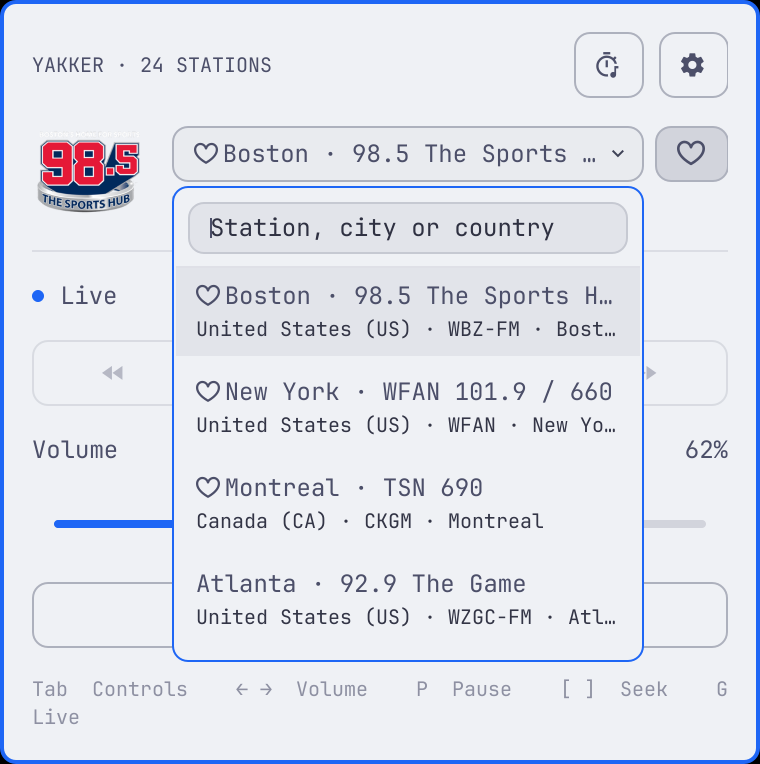
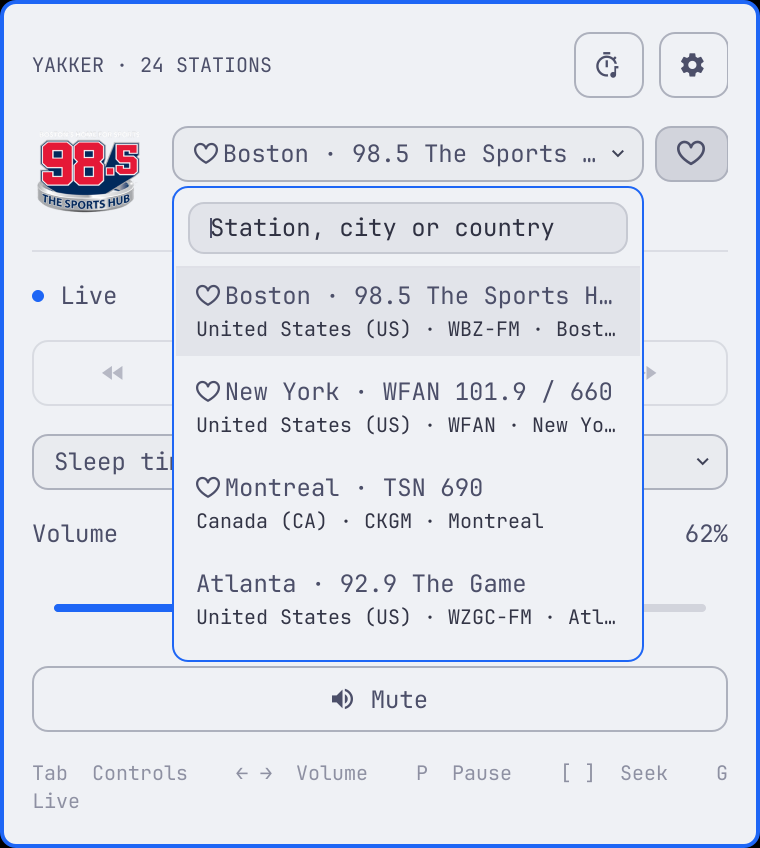
Document the recording sprint and refresh the feature gallery

diff --git a/tools/readme/gallery.qml b/tools/readme/gallery.qml
@@ -86,7 +86,7 @@ ShellRoot {
           panel.screenshotPicker.close()
 
           const complete = {id: "saved", label: "Afternoon sports", stationName: "98.5 The Sports Hub", status: "complete", bytes: 3600000, durationSeconds: 1200,
-            plannedStart: "2026-11-19T14:00:00-05:00", plannedEnd: "2026-11-19T14:20:00-05:00", startedAt: "2026-11-19T14:00:01-05:00", endedAt: "2026-11-19T14:20:00-05:00", playable: true}
+            plannedStart: "2026-11-19T14:00:00-05:00", plannedEnd: "2026-11-19T14:20:00-05:00", startedAt: "2026-11-19T14:00:01-05:00", endedAt: "2026-11-19T14:20:00-05:00", playable: true, resumePosition: 486}
           const active = {id: "capturing", label: "Afternoon sports", stationName: "98.5 The Sports Hub", status: "recording", bytes: 1800000,
             plannedStart: "2026-11-20T14:00:00-05:00", plannedEnd: "2026-11-20T14:20:00-05:00", startedAt: "2026-11-20T14:00:01-05:00", playable: false}
           radio.recordings = snapshot([schedule], [active, complete], 1)
@@ -94,13 +94,14 @@ ShellRoot {
           capture("recordings")
 
           radio.recordings = snapshot([], [], 0)
-          panel.screenshotView.beginEdit(Object.assign({}, schedule, {id: ""}))
+          panel.screenshotView.beginEdit(Object.assign({}, schedule, {id: "", kind: "once", date: "2026-11-23"}))
           capture("schedule")
           panel.screenshotView.editing = false
 
           panel.recordingsOpen = false
           radio.playbackKind = "recording"; radio.recordingTitle = "Afternoon sports"
           radio.duration = 1200; radio.position = 486
+          radio.playbackSpeed = 1.25; radio.sleepRemaining = 900
           capture("recording-player")
 
           radio.playbackKind = "live"; radio.position = 0

diff --git a/README.md b/README.md
@@ -14,9 +14,9 @@ minutes of history** in Settings; use the timeline, skip back or forward
 30 seconds, or select **Go live** to catch up. **Live only** remains the default,
 and buffered audio stays in RAM without creating recording files.
 
-**Save a show for later.** Schedule recordings by weekday and timezone, keep
-compact Opus files in `~/Music/Yakker`, and play them inside Yakker. Choose your
-recording folder and storage cap. Favorite stations stay at the top of search,
+**Save a show for later.** Record now or schedule a show once or weekly, keep
+compact Opus files in `~/Music/Yakker`, and resume them inside Yakker. Choose your recording folder
+and storage cap. Favorite stations stay at the top of search,
 and you can add your own stream URLs.
 
 Plugin ID: `io.github.joega.yakker`. Code is MIT licensed. Unaffiliated with the broadcaster.
@@ -26,11 +26,11 @@ The bundled station logos belong to their respective owners; see [artwork attrib
 
 | Live radio | Pause and rewind | Recording library |
 | :---: | :---: | :---: |
-| [<img src="docs/yakker-popup.png" alt="Live player with favorite station, Recordings and Settings icons, and a compact rewind, Stop, Play/Pause, forward row" width="240">](docs/yakker-popup.png) | [<img src="docs/yakker-dvr.png" alt="Paused radio with 15 minutes of history, a seek timeline, and Go live" width="240">](docs/yakker-dvr.png) | [<img src="docs/yakker-recordings.png" alt="Recording library with a weekday schedule, an active capture, and a saved show ready to play" width="240">](docs/yakker-recordings.png) |
+| [<img src="docs/yakker-popup.png" alt="Live player with favorite station, Recordings and Settings icons, and a compact rewind, Stop, Play/Pause, forward row" width="240">](docs/yakker-popup.png) | [<img src="docs/yakker-dvr.png" alt="Paused radio with 15 minutes of history, a seek timeline, and Go live" width="240">](docs/yakker-dvr.png) | [<img src="docs/yakker-recordings.png" alt="Compact recording library with title and station search, status filter, and saved shows" width="240">](docs/yakker-recordings.png) |
 
-| Favorites and search | Weekly schedules | Settings and custom stations |
+| Favorites and search | Recording schedules | Settings and custom stations |
 | :---: | :---: | :---: |
-| [<img src="docs/yakker-stations.png" alt="Searchable station list with favorites sorted first" width="240">](docs/yakker-stations.png) | [<img src="docs/yakker-schedule.png" alt="Schedule editor with weekdays, start and end times, timezone, and next-occurrence preview control" width="240">](docs/yakker-schedule.png) | [<img src="docs/yakker-settings.png" alt="Settings with listening buffer, recording storage, and custom station controls" width="240">](docs/yakker-settings.png) |
+| [<img src="docs/yakker-stations.png" alt="Searchable station list with favorites sorted first" width="240">](docs/yakker-stations.png) | [<img src="docs/yakker-schedule.png" alt="Schedule editor with weekly or one-time choices, date, start and end times, timezone, and preview" width="240">](docs/yakker-schedule.png) | [<img src="docs/yakker-settings.png" alt="Settings with listening buffer, recording storage, and custom station controls" width="240">](docs/yakker-settings.png) |
 
 Yakker follows your active Omarchy theme. Screenshots use Catppuccin Latte.
 
@@ -73,7 +73,7 @@ illustrative playback and recording data; see [how to refresh them](docs/screens
 - Go 1.26+ and Make to build from source. Go is only needed at build time.
 - Linux with working audio. The bar widget also needs a desktop session with a private `XDG_RUNTIME_DIR`.
 - Optional: the distribution's `mpv-mpris` package for media keys.
-- Scheduled recordings need `ffmpeg` with the `libopus` encoder and `ffprobe`.
+- Recordings need `ffmpeg` with the `libopus` encoder and `ffprobe`.
   Listening and playing retained recordings use mpv.
 
 These are tested versions; older shells must provide the same native UI components.
@@ -172,6 +172,11 @@ omarchy-shell shell hide io.github.joega.yakker
 
 ## Pause and rewind
 
+The player also has a session-only **Sleep timer**: choose Off, 15, 30, or 60
+minutes, or set a custom duration from 1 to 240 minutes. It stops foreground
+listening when it expires; captures continue. Changing stations keeps the
+deadline, and pressing **Stop** cancels the timer.
+
 The optional DVR-style buffer lets you pause a live station and listen from that
 point later. Open **Settings** in the radio popup and choose a **Listening buffer**:
 
@@ -220,17 +225,24 @@ independent of the desktop widget.
 
 ## Scheduled recordings
 
-Open the **Recordings icon → New schedule**, choose a bundled or custom station, select
-weekdays, enter start/end times in 24-hour format, and choose the timezone. Use
-**Preview next time** to check the resolved occurrence before saving. For example,
-WBZ-FM can record Fridays from `14:00` to `14:20` in `America/New_York`. A time
-before the start ends the next day; schedules can last up to 12 hours. Daylight
-saving follows the saved timezone. Schedules start empty; create and enable the
-ones you want.
+Open **Recordings** for focused **Library**, **Schedules**, **Record now**, and
+**Storage** views. In Schedules, choose **New schedule**, select a bundled or
+custom station, then choose weekly weekdays or a one-time date. Enter start and
+end times in 24-hour format and choose an IANA timezone. **Preview next time**
+checks the resolved occurrence before saving. For example, WBZ-FM can record
+Fridays from `14:00` to `14:20` in `America/New_York`. An end time before the
+start ends the next day; recordings can last up to 12 hours. Daylight saving
+follows the saved timezone. Schedules start empty; create and enable the ones
+you want.
+
+For an immediate capture, choose **Record now**, a station, and a duration. It
+defaults to 30 minutes, with 15, 30, and 60 minute presets and a custom range of
+1 to 720 minutes. It uses the same storage and concurrency limits as scheduled
+captures and does not create a repeating schedule.
 
 | Saved-show playback | Recording storage |
 | :---: | :---: |
-| [<img src="docs/yakker-recording-player.png" alt="Saved recording playing with the compact transport row, duration-based timeline, and Return to live" width="300">](docs/yakker-recording-player.png) | [<img src="docs/yakker-storage.png" alt="Recording storage settings with an editable folder, library cap, free-space reserve, and concurrency limit" width="300">](docs/yakker-storage.png) |
+| [<img src="docs/yakker-recording-player.png" alt="Saved recording with resume position, playback speed, sleep timer, seek timeline, and Return to live" width="300">](docs/yakker-recording-player.png) | [<img src="docs/yakker-storage.png" alt="Recording storage with folder picker, notification preferences, library cap, and free-space reserve" width="300">](docs/yakker-storage.png) |
 
 Up to **three recordings** can run at once, including while you listen to another
 station. Closing the popup, stopping foreground audio, changing stations, or
@@ -245,10 +257,15 @@ the remaining interval, retaining separate segments. There is no wake timer or s
 Recordings use **mono Opus at 24 kbit/s VBR** in `.opus` files: roughly **3.6 MB
 per 20 minutes** or **10.8 MB per hour**, plus container overhead, with sizes
 varying by content. The bitrate is an internal encoder parameter; raising it later
-affects future captures. The library shows complete, partial, missed, error and
-missing-file states with their reasons. **Play** opens a retained file in the
-foreground player, with pause/resume, a duration-based seek bar and **Return to
-live**. Missing files become available again when their retained folder returns.
+affects future captures. The Library shows compact rows for each recording. Search
+by title or station and filter by status across the full library before moving between pages. Open
+**Details** for times, size, reason, deletion, and **Restart from beginning**.
+**Play** or **Resume** opens a retained file in the foreground player, with
+pause/resume, a duration-based seek bar and **Return to live**. Position is saved
+at most every 10 seconds and when pausing, stopping, switching, or shutting down;
+finishing or reaching the end resets it. Saved recordings support 0.75×, 1×,
+1.25×, 1.5×, and 2× playback with pitch correction; live listening returns to
+1×. Missing files become available again when their retained folder returns.
 Audio quality and exact broadcast boundaries depend on the source; connection
 startup, broadcaster buffering and network interruptions can affect the segment.
 
@@ -256,12 +273,18 @@ Dates use a consistent format such as **Fri Nov 20 2026 02:30PM**. Library dates
 use local time; upcoming schedule times and previews use the schedule's timezone.
 
 Open **Settings → Recording storage**, or the storage controls in Recordings, to
-choose a folder and total library cap. Defaults:
+choose a folder and total library cap. Enter a path or use **Choose folder**;
+**Open folder** opens it in your file manager. Defaults:
 
 - **Folder:** `~/Music/Yakker`, created when the first capture needs it.
 - **Library cap:** 5 GiB, editable in Settings.
 - **Free-space reserve:** 1 GiB on the destination disk.
 - **Cleanup:** manual deletion; existing recordings are preserved when full.
+
+Recording notifications are on by default for completed, partial, failed, and
+missed captures and storage or manager failures. In Storage, turn them off or
+enable optional start notifications, which default to off. Yakker suppresses
+duplicate notices and does not announce old recordings again at startup.
 
 A folder change applies to future recordings. Older files remain listed at their
 saved locations and count toward the cap. An unavailable/unwritable destination
@@ -395,7 +418,11 @@ The selected station, favorites, volume, mute and listening buffer length are sa
   "stationId": "",
   "favorites": [],
   "bufferMinutes": 0,
+  "recordingNotifications": true,
+  "recordingStartNotifications": false,
   "showName": false,
+  "recordingNotifications": true,
+  "recordingStartNotifications": false,
   "mprisPlugin": ""
 }
 ```
@@ -415,9 +442,7 @@ optional local `artwork` path, optional `artworkBackground` color for logo contr
 and an optional fallback Nerd Font `icon`. Both the bar and terminal player read
 this catalogue. After editing station data, rebuild/reinstall and restart the shell.
 New artwork must also be included in the installer and release file lists; tests
-check the bundled catalogue's coverage. The default stream is
-`https://playerservices.streamtheworld.com/api/livestream-redirect/WBZFMAAC.aac`.
-No network configuration fetch is needed.
+check the bundled catalogue's coverage. No network configuration fetch is needed.
 
 ## Media keys and metadata
 
